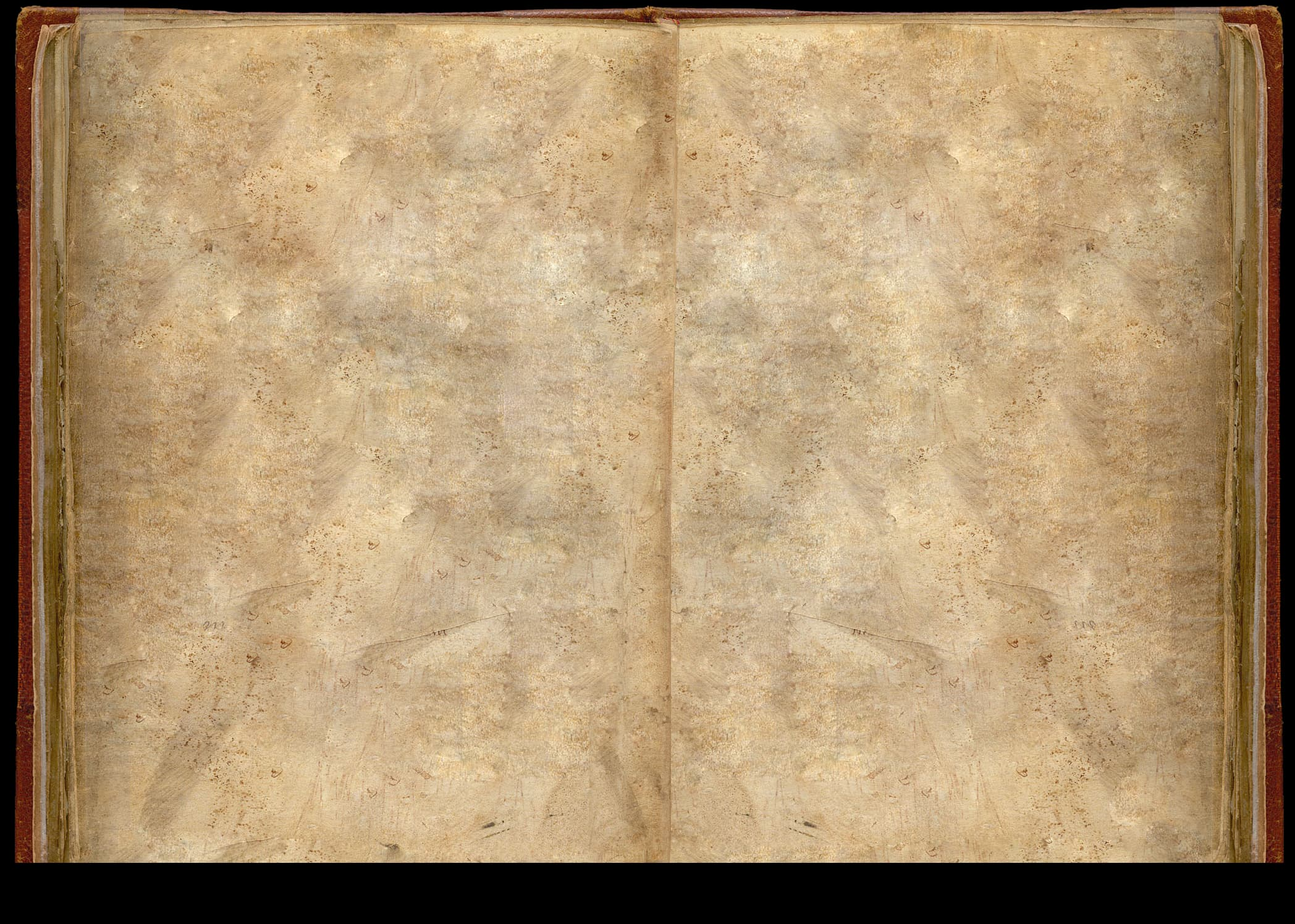
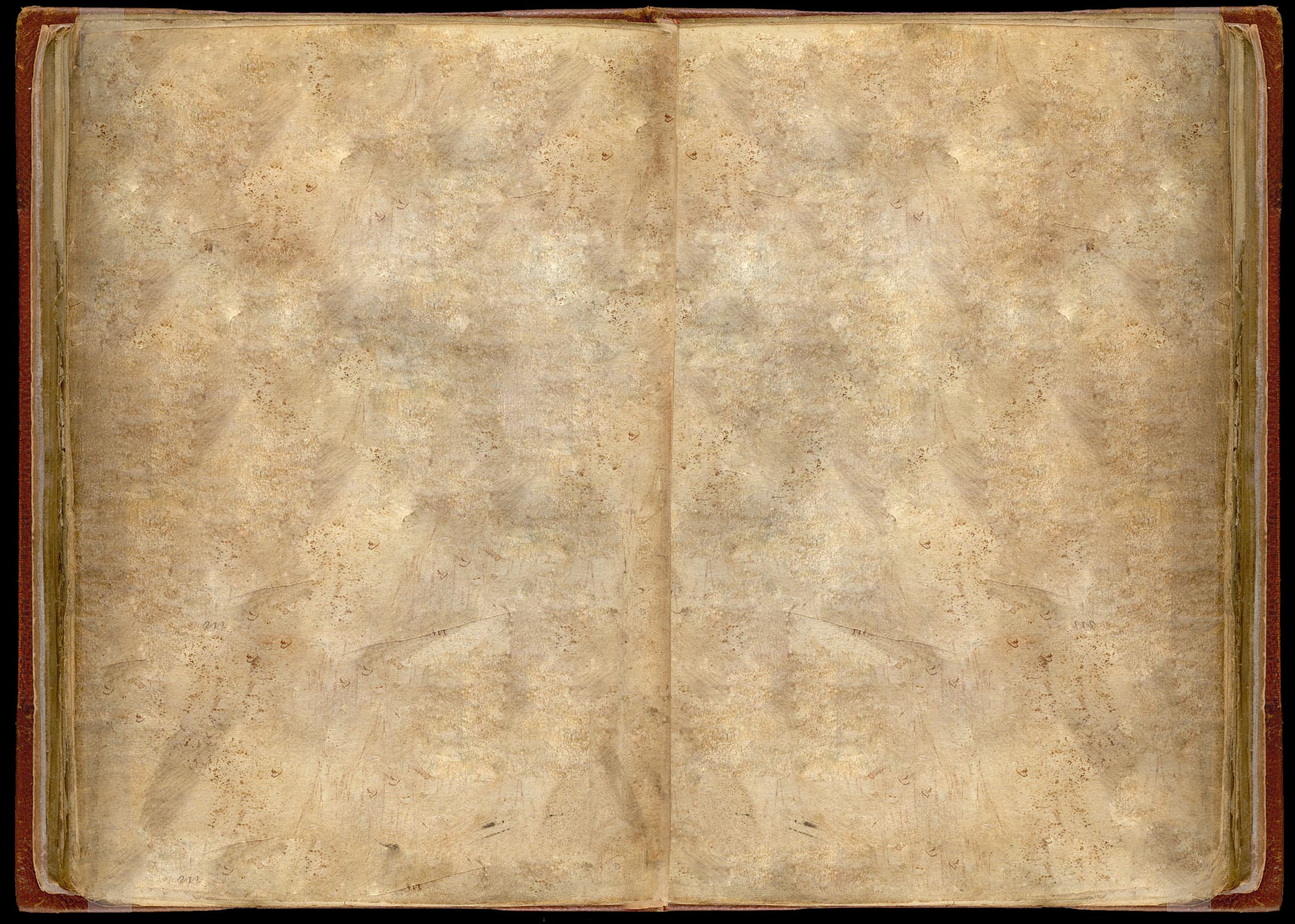
align spells box

Changed region(s): [[0.0, 0.9225, 0.9924, 1.0]]

diff --git a/public/style.css b/public/style.css
@@ -4,16 +4,39 @@ main {
     height: 100vh;
     /* width: 800px; */
     /* padding: 2em; */
+    /* display: flex; */
+    /* align-items: center; */
+    /* justify-content: center; */
 }
 
 .spells__image {
     position: absolute;
     z-index: -100;
     width: 100%;
-    max-height: 100%;
+    height: 100%;
 }
 
 .spells {
-    padding: 2em;
+    display: flex;
+    justify-content: center;
+    align-items: center;
+    /* flex-direction: column; */
+    padding-top: 20vh;
+    /* padding: 20vh 2em; */
+}
+
+.spells__wrapper {
+    border: 1px solid brown;
+    max-height: 60vh;
+    overflow-y: hidden;
+    /* width: 100vw; */
+}
+
+.spells__list li {
+    
+    }
+
+.spells__list li:hover {
+color: hotpink
 }
 

diff --git a/public/index.html b/public/index.html
@@ -19,10 +19,12 @@
     <img class = "spells__image" src = "assets/torn-page.jpg" alt="a torn page">
 
     <section class="spells">
-
+<div class="spells__wrapper">
       <label for="spells-input"></label>
       <input id="spells-input" class="spells__input" type="text" />
+
       <ul class="spells__list"></ul>
+    </div>
       <!-- add dropdown list that modifies input field and allows each option to be clicked
       list disappears once an option has been clicked, option moves into input textbox,
       spellfire function triggered to add page content -->
